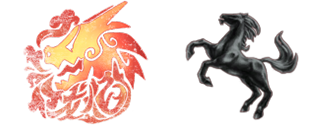
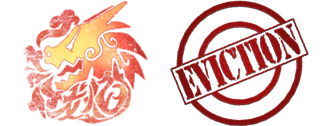
Updates
Logo Change

Changed region(s): [[0.5263, 0.0, 0.9598, 1.0]]

diff --git a/index.html b/index.html
@@ -25,7 +25,7 @@
 							<div class="col-12">
 
 								<!-- Logo -->
-									<h1><a href="index.html" id="logo"><img src="images/Eviction Co. 2.png" width=64 height=64></img> Eviction Co.</a></h1>
+									<h1><a href="index.html" id="logo"><img src="images/Eviction_Co_512.png" width=64 height=64></img></a></h1>
 
 								<!-- Nav -->
 									<nav id="nav">
